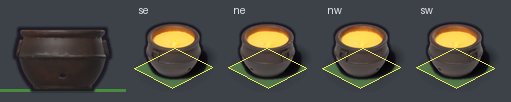
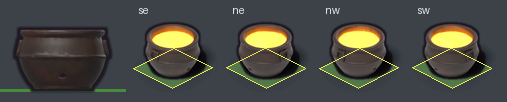
render.emisivo: lo de un color de la textura brilla (máscara por tono, saturación y brillo -> emisión); el crisol de ejemplo con el metal fundido incandescente (preview y vitrina)
Claude-Session: https://claude.ai/code/session_018MsxWHMbhG2Pb9ho6A4CGr

diff --git a/herramientas/3_blender/blender_main.py b/herramientas/3_blender/blender_main.py
@@ -205,6 +205,8 @@ def importar():
                 oscuro_brillante(m, b, ESTILO['oscuro_brillante'])
             if ESTILO.get('oclusion'):
                 oclusion(m, b, ESTILO['oclusion'])
+            if ESTILO.get('emisivo'):
+                emisivo(m, b, ESTILO['emisivo'])
     return col, mesh
 
 
@@ -820,6 +822,38 @@ def oscuro_brillante(m, b, ob):
     mix.inputs['To Min'].default_value = ESTILO['rugosidad']; mix.inputs['To Max'].default_value = ob.get('rugosidad', 0.12)
     nt.links.new(por.outputs['Value'], mix.inputs['Value'])
     nt.links.new(mix.outputs['Result'], b.inputs['Roughness'])
+
+
+def emisivo(m, b, em):
+    """render > emisivo {tono: [min, max] (grados), saturacion, valor, fuerza}: lo que tiene ese color en la textura
+    brilla (emisión = el color base × fuerza): metal fundido, brasas, lava, pantallas. Ningún motor pinta algo
+    incandescente: la textura lo trae naranja plano. Máscara = tono adentro del rango × saturación >= saturacion ×
+    brillo (V) >= valor, con bordes suaves. Lo apagado no cambia."""
+    if not b.inputs['Base Color'].is_linked:
+        return
+    nt = m.node_tree
+    src = b.inputs['Base Color'].links[0].from_socket
+    sep = nt.nodes.new('ShaderNodeSeparateColor'); sep.mode = 'HSV'
+    nt.links.new(src, sep.inputs['Color'])
+    t0, t1 = (x / 360 for x in em.get('tono', [15, 60]))
+    mascaras = []
+    for canal, desde, hasta in ((0, t0 - 0.02, t0 + 0.02), (0, t1 + 0.02, t1 - 0.02),
+                                (1, em.get('saturacion', 0.5) - 0.1, em.get('saturacion', 0.5)),
+                                (2, em.get('valor', 0.6) - 0.1, em.get('valor', 0.6))):
+        mr = nt.nodes.new('ShaderNodeMapRange'); mr.interpolation_type = 'SMOOTHSTEP'
+        mr.inputs['From Min'].default_value, mr.inputs['From Max'].default_value = desde, hasta
+        nt.links.new(sep.outputs[canal], mr.inputs['Value'])
+        mascaras.append(mr.outputs['Result'])
+    total = mascaras[0]
+    for otra in mascaras[1:]:
+        por = nt.nodes.new('ShaderNodeMath'); por.operation = 'MULTIPLY'
+        nt.links.new(total, por.inputs[0]); nt.links.new(otra, por.inputs[1])
+        total = por.outputs['Value']
+    fuerza = nt.nodes.new('ShaderNodeMath'); fuerza.operation = 'MULTIPLY'
+    fuerza.inputs[1].default_value = em.get('fuerza', 1.0)
+    nt.links.new(total, fuerza.inputs[0])
+    nt.links.new(src, b.inputs['Emission Color'])
+    nt.links.new(fuerza.outputs['Value'], b.inputs['Emission Strength'])
 
 
 def oclusion(m, b, oc):

diff --git a/README.en.md b/README.en.md
@@ -937,6 +937,7 @@ config and generate a test character and prop to check they match before produci
 | `render.metal`, `render.entorno` | (optional) Metallic and a gradient environment `[[height 0-1, gray], ...]`: metal reflects the environment, and a light band on the horizon makes the highlights | Blender |
 | `render.metal_gris`, `render.rugosidad_metal` | (optional) `[sat_metal, sat_non_metal]`: metal only on the gray/white parts of the texture (metal armor over skin) | Blender |
 | `render.oscuro_brillante` | (optional) `{valor, saturacion, rugosidad}`: dark, colorless areas with a different roughness (leather, black plastic) | Blender |
+| `render.emisivo` | (optional) `{tono: [min, max], saturacion, valor, fuerza}`: whatever has that color in the texture glows (molten metal, embers, lava, screens); hue in degrees (orange-yellow: `[15, 60]`), strength ~1 (more washes the color out) | Blender |
 | `render.oclusion` | (optional) `{distancia, fuerza}`: darkens grooves and joints (Ambient Occlusion node over the base color) | Blender |
 | `posproceso` | `saturacion`, `contraste`, `brillo`, `nitidez` (optional), `tinte` + `tinte_fuerza`, `contorno_px` + `contorno_color` | sprites |
 | `escala.px_por_unidad`, `escala.baldosa_px` | same on-screen size for every asset | Blender, sprites |

diff --git a/README.md b/README.md
@@ -925,6 +925,7 @@ un personaje y un objeto de prueba para ver que combinen antes de producir el re
 | `render.metal`, `render.entorno` | (opcionales) Metallic y ambiente en degradé `[[altura 0-1, gris], ...]`: el metal refleja el entorno, y una franja clara en el horizonte hace los brillos | Blender |
 | `render.metal_gris`, `render.rugosidad_metal` | (opcionales) `[sat_metal, sat_no_metal]`: metal solo en lo gris/blanco de la textura (armadura metálica sobre piel) | Blender |
 | `render.oscuro_brillante` | (opcional) `{valor, saturacion, rugosidad}`: lo oscuro y sin color con otra rugosidad (cuero, plástico negro) | Blender |
+| `render.emisivo` | (opcional) `{tono: [min, max], saturacion, valor, fuerza}`: lo de ese color en la textura brilla (metal fundido, brasas, lava, pantallas); tono en grados (naranja-amarillo: `[15, 60]`), fuerza ~1 (más lava el color) | Blender |
 | `render.oclusion` | (opcional) `{distancia, fuerza}`: oscurece ranuras y uniones (nodo Ambient Occlusion sobre el color base) | Blender |
 | `posproceso` | `saturacion`, `contraste`, `brillo`, `nitidez` (opcional), `tinte` + `tinte_fuerza`, `contorno_px` + `contorno_color` | sprites |
 | `escala.px_por_unidad`, `escala.baldosa_px` | mismo tamaño en pantalla para todos los assets | Blender, sprites |

diff --git a/ROADMAP.md b/ROADMAP.md
@@ -43,7 +43,8 @@ antiparras levantadas), pelo corto, brazos separados, simétrico. Con cada versi
 - [x] Personaje: Z-Image (sin referencia) → Qwen (limpieza) → vistas → Pixal3D 4 vistas + UltraTex (seed 2) → rig →
       revisión (revés 0,2 %). En `ejemplos/personajes/cris`.
 - [x] Objetos: crisol, yunque, martillo, horno de fundición, caja de herramientas. En `ejemplos/objetos/`.
-- [ ] Crisol del logo: el metal fundido no brilla (ningún motor lo pinta incandescente): material emisivo en Blender.
+- [x] Crisol del logo: el metal fundido no brilla (ningún motor lo pinta incandescente): `render.emisivo` en Blender
+      (máscara por color de la textura). Falta, si hace falta, un halo (glare del compositor).
 - [x] Vehículo: la camioneta de Cris (receta de vehículos). En `ejemplos/objetos/camioneta`.
 - [x] Escenario: el taller (piso de piedra, camino y pared de ladrillo; Z-Image Turbo). En `ejemplos/escenarios/taller`.
 
